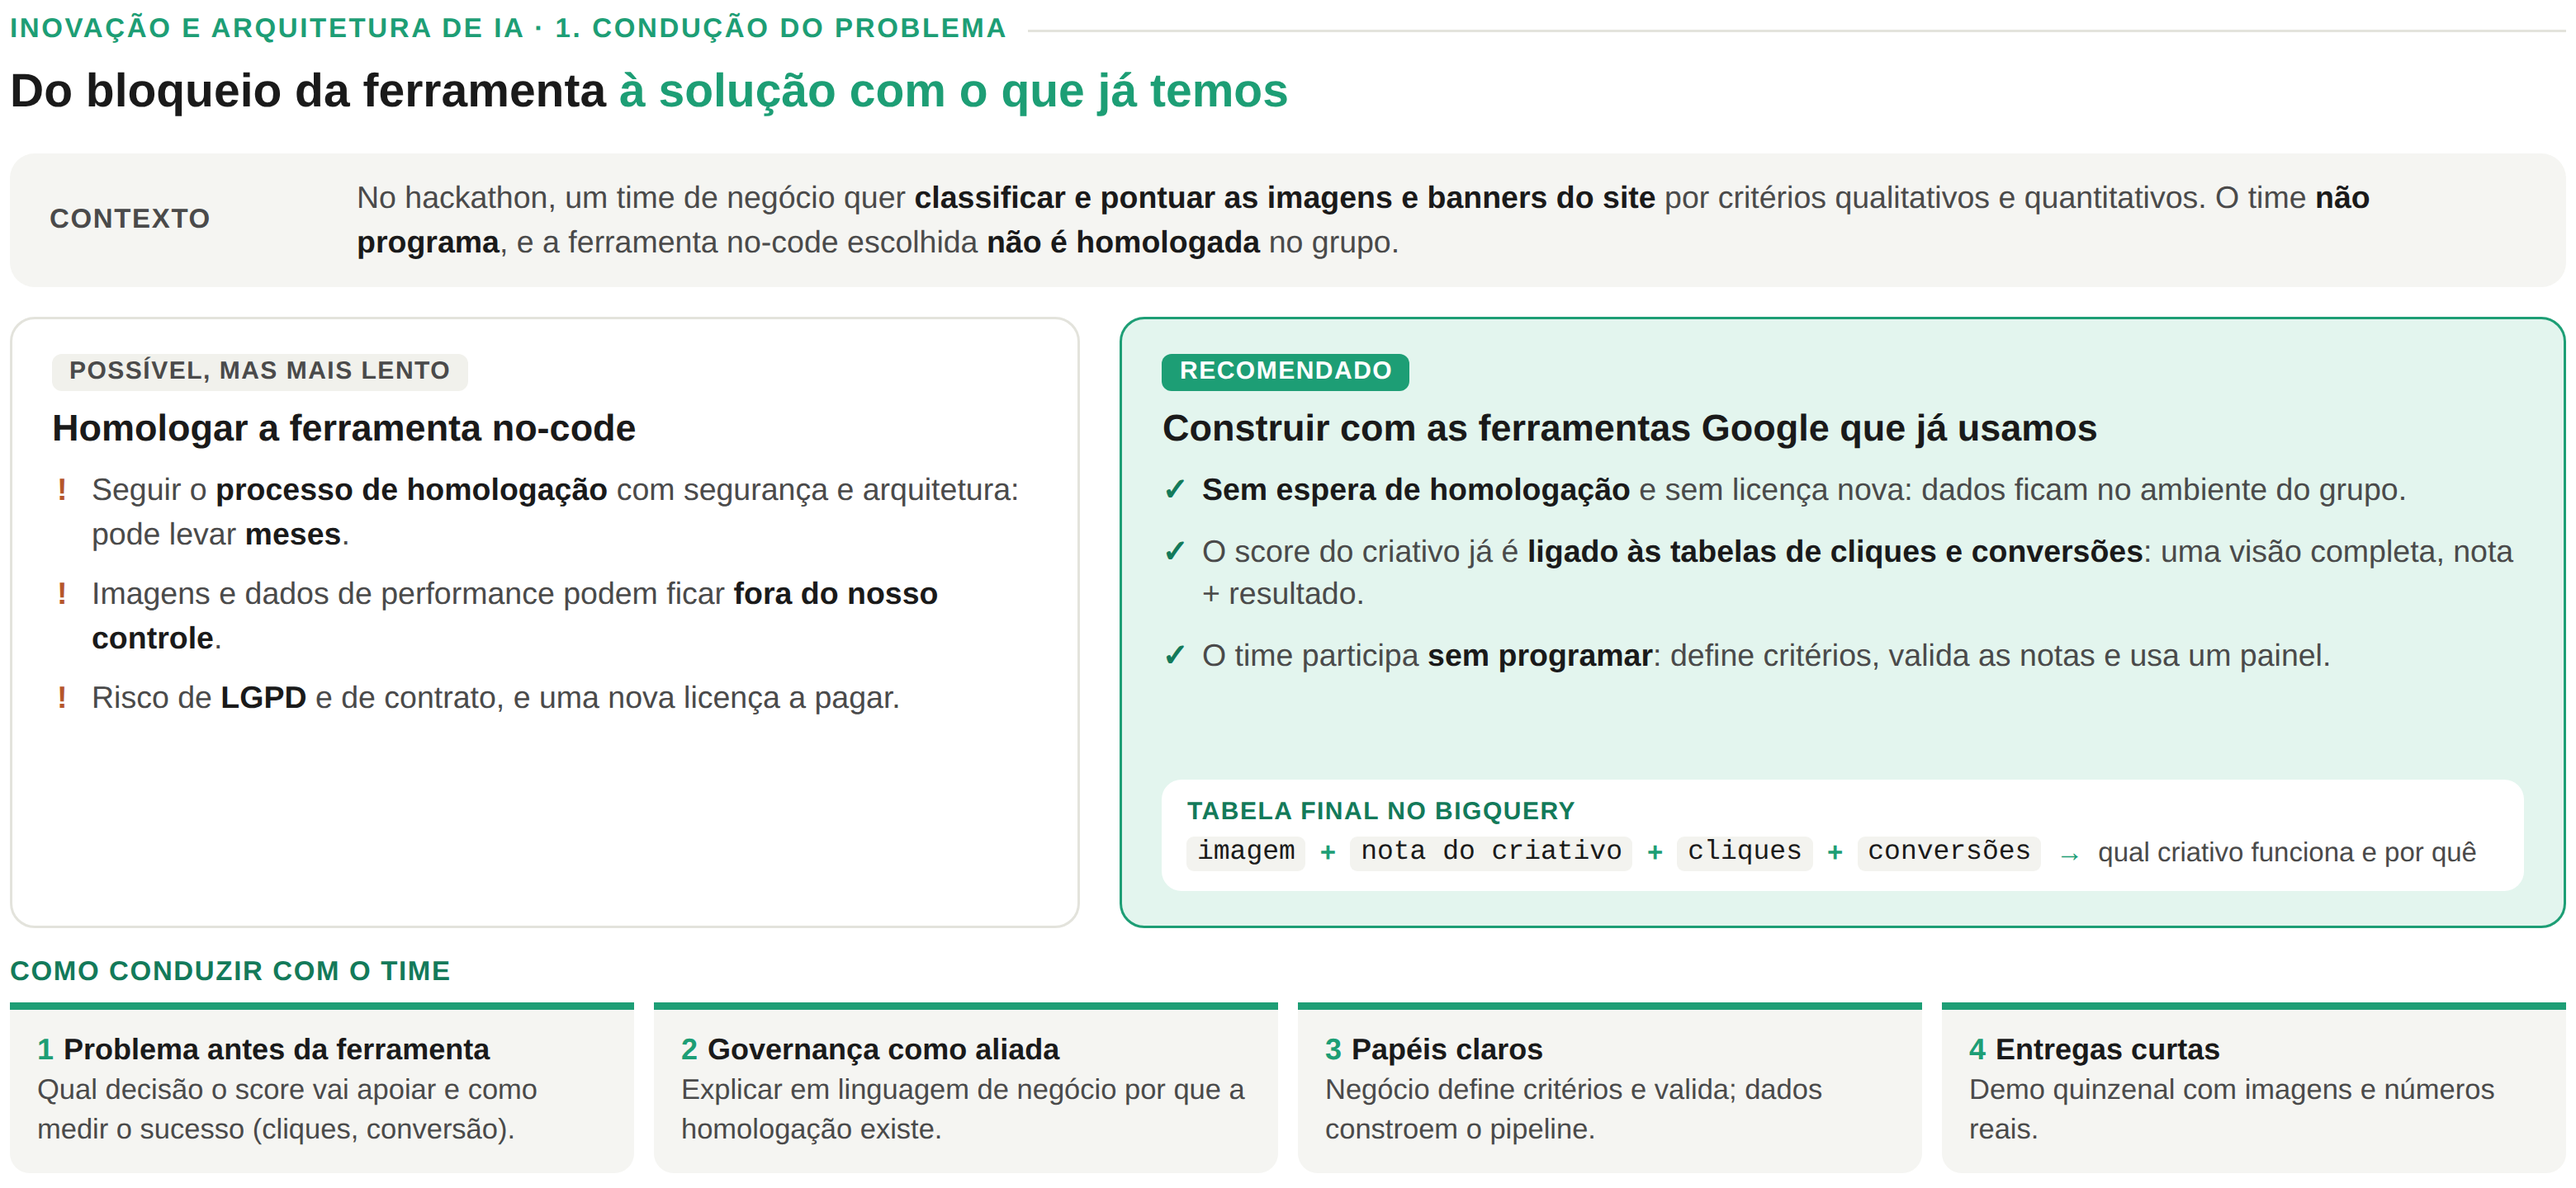
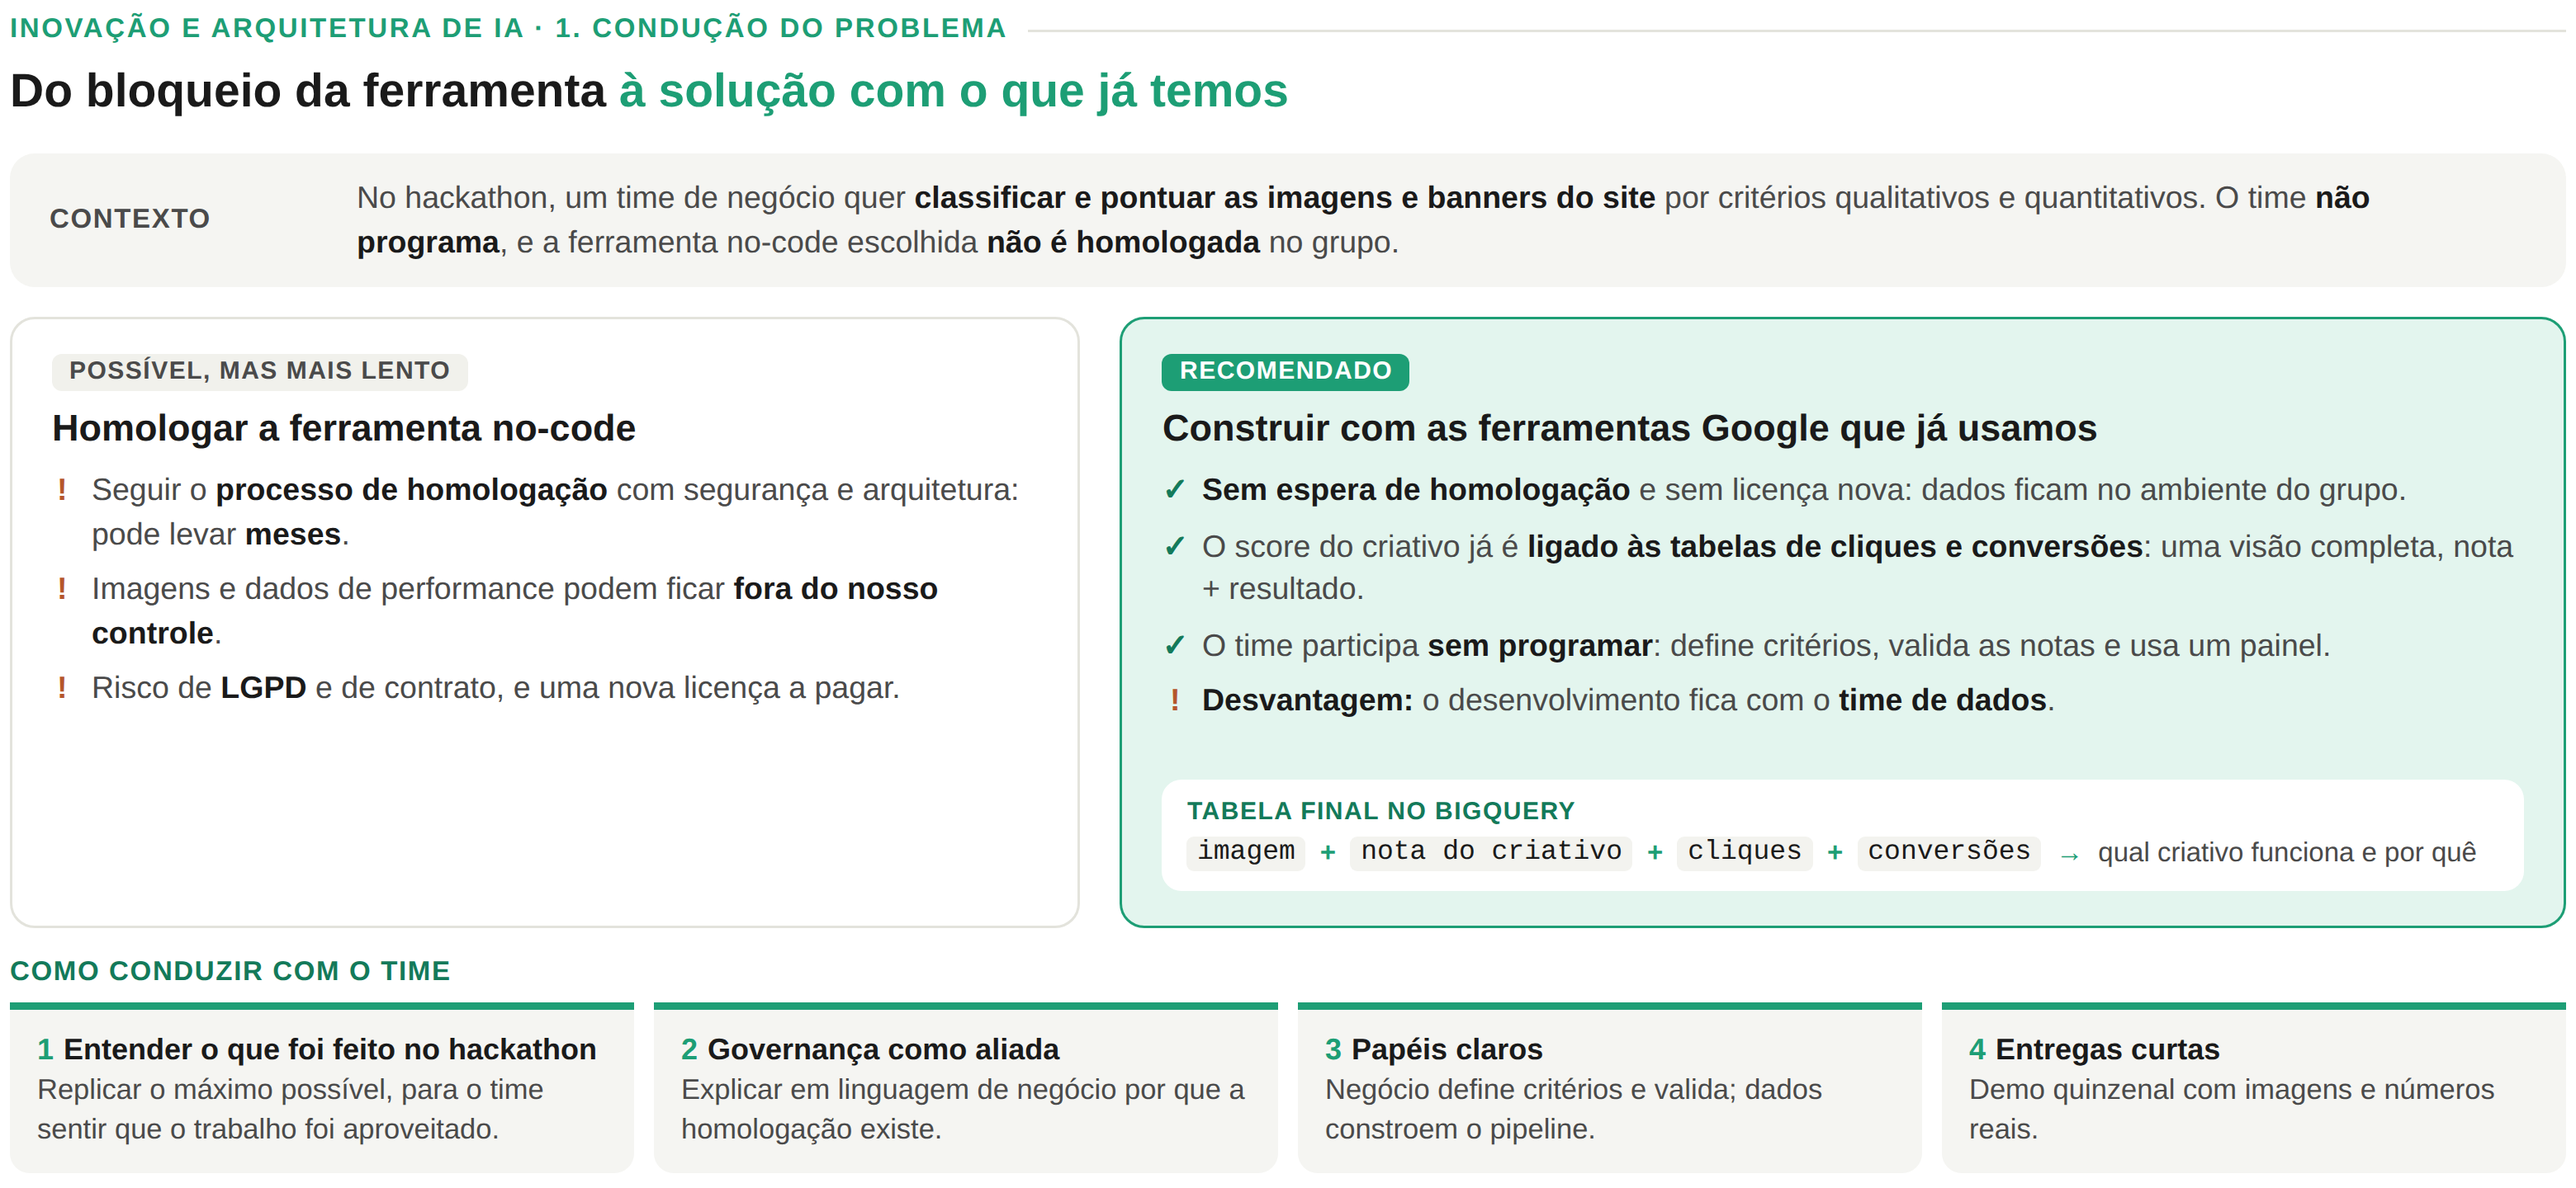
Widget IA condução: desvantagem do caminho recomendado e passo de entender o hackathon
Claude-Session: https://claude.ai/code/session_01NUJZKTcM8cs9QBTcUeuacF

Changed region(s): [[0.4663, 0.4375, 0.9638, 0.625], [0.0311, 0.4688, 0.3731, 0.5938], [0.0, 0.875, 0.2487, 0.9688]]

diff --git a/apresentacao/widgets/18_ia_conducao.html b/apresentacao/widgets/18_ia_conducao.html
@@ -28,7 +28,7 @@
   .cam.a .sel { background: #f1f1ec; color: var(--tinta-2); }
   .cam.b .sel { background: var(--verde); color: #fff; }
   .cam h4 { font-size: 15px; margin: 7px 0 8px; }
-  .cam ul { list-style: none; display: flex; flex-direction: column; gap: 7px; }
+  .cam ul { list-style: none; display: flex; flex-direction: column; gap: 5px; }
   .cam li { font-size: 12.5px; color: var(--tinta-2); line-height: 1.4; padding-left: 16px; position: relative; }
   .cam li b { color: var(--tinta); }
   .cam.a li::before { content: "!"; position: absolute; left: 2px; font-weight: 700; color: var(--laranja); }
@@ -43,6 +43,7 @@
   .p b { color: var(--tinta); display: block; font-size: 12px; margin-bottom: 2px; }
   .p .n { color: var(--verde); font-weight: 700; margin-right: 4px; }
   .tit-p { font-size: 11px; font-weight: 700; color: var(--verde-escuro); text-transform: uppercase; letter-spacing: .05em; margin: 12px 0 6px; }
+  .cam.b li.contra::before { content: "!"; left: 3px; color: var(--laranja); }
 </style>
 </head>
 <body>
@@ -72,6 +73,7 @@
         <li><b>Sem espera de homologação</b> e sem licença nova: dados ficam no ambiente do grupo.</li>
         <li>O score do criativo já é <b>ligado às tabelas de cliques e conversões</b>: uma visão completa, nota + resultado.</li>
         <li>O time participa <b>sem programar</b>: define critérios, valida as notas e usa um painel.</li>
+        <li class="contra"><b>Desvantagem:</b> o desenvolvimento fica com o <b>time de dados</b>.</li>
       </ul>
       <div class="tabela">
         <div class="tt">Tabela final no BigQuery</div>
@@ -81,7 +83,7 @@
   </div>
   <div class="tit-p">Como conduzir com o time</div>
   <div class="passos">
-    <div class="p"><b><span class="n">1</span>Problema antes da ferramenta</b>Qual decisão o score vai apoiar e como medir o sucesso (cliques, conversão).</div>
+    <div class="p"><b><span class="n">1</span>Entender o que foi feito no hackathon</b>Replicar o máximo possível, para o time sentir que o trabalho foi aproveitado.</div>
     <div class="p"><b><span class="n">2</span>Governança como aliada</b>Explicar em linguagem de negócio por que a homologação existe.</div>
     <div class="p"><b><span class="n">3</span>Papéis claros</b>Negócio define critérios e valida; dados constroem o pipeline.</div>
     <div class="p"><b><span class="n">4</span>Entregas curtas</b>Demo quinzenal com imagens e números reais.</div>
